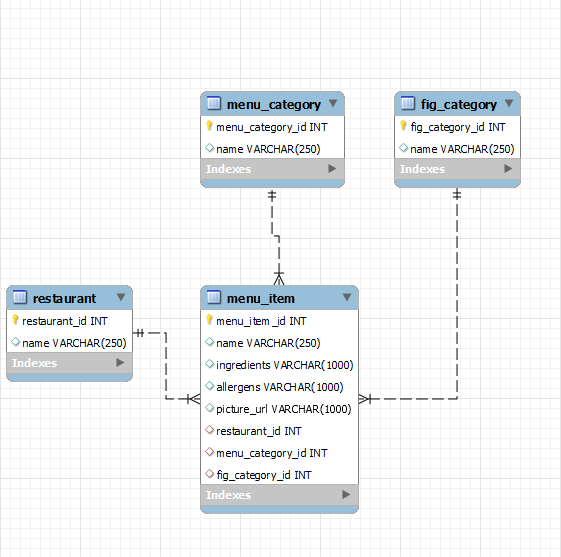
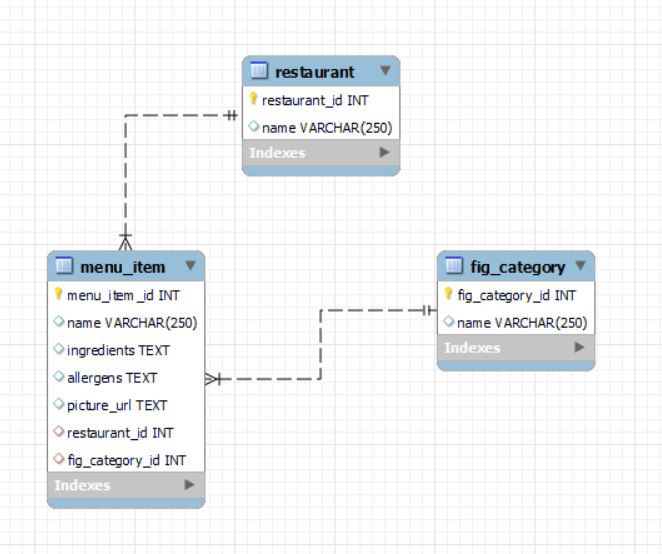
feat: clean up code and write tests

Changed region(s): [[0.0, 0.0921, 0.9091, 0.9513], [0.697, 0.1534, 0.9394, 0.3682], [0.7879, 0.7058, 0.8182, 0.7365]]

diff --git a/src/fig_data_challenge/main.py b/src/fig_data_challenge/main.py
@@ -1,6 +1,29 @@
+import json
+
 import numpy as np
 import pandas as pd
 from sqlalchemy import create_engine
+
+
+def return_42() -> int:
+    return 42
+
+
+def drop_rows_blank_or_null(df: pd.DataFrame, cols: list[str]) -> pd.DataFrame:
+    for col in cols:
+        df.loc[:, col] = df[col].replace("", np.nan)
+        df = df.dropna(subset=col)
+
+    return df
+
+
+def correct_mispellings(
+    df: pd.DataFrame, col: str, corrections: dict[str, str]
+) -> pd.DataFrame:
+    for k, v in corrections.items():
+        df.loc[df[col] == k, col] = v
+
+    return df
 
 
 def main() -> None:
@@ -13,25 +36,34 @@ def main() -> None:
     )
 
     # drop rows where blank or null
-    print(df_menu_items.shape)
-    df_menu_items["Product Name"] = df_menu_items["Product Name"].replace("", np.nan)
-    df_menu_items["Ingredients on Product Page"] = df_menu_items[
-        "Ingredients on Product Page"
-    ].replace("", np.nan)
-    df_menu_items["Store"] = df_menu_items["Store"].replace("", np.nan)
-    df_menu_items = df_menu_items.dropna(
-        subset=["Product Name", "Ingredients on Product Page", "Store"]
+    print(
+        "df_menu_items shape prior to removing blanks and nulls - "
+        + str(df_menu_items.shape)
     )
-    print(df_menu_items.shape)
+    df_menu_items = drop_rows_blank_or_null(
+        df=df_menu_items, cols=["Product Name", "Ingredients on Product Page", "Store"]
+    )
+    print(
+        "df_menu_items shape after to removing blanks and nulls - "
+        + str(df_menu_items.shape)
+        + "\n\n"
+    )
 
     # check the store names for any mispellings
+    print("unique store names:")
     print(np.sort(df_menu_items["Store"].unique()))
-    # correct the mispellings
-    df_menu_items.loc[df_menu_items["Store"] == "MacDonald's", "Store"] = "McDonald’s"
-    print(np.sort(df_menu_items["Store"].unique()))
-
+    print("\n")
     # check the category names for any mispellings
+    print("unique fig category names:")
     print(np.sort(df_reference_categories["Fig Category 1"].unique()))
+    print("\n")
+    # correct the mispellings
+    df_menu_items = correct_mispellings(
+        df=df_menu_items, col="Store", corrections={"MacDonald's": "McDonald’s"}
+    )
+    print("unique store names after correcting mispelling:")
+    print(np.sort(df_menu_items["Store"].unique()))
+    print("\n")
 
     # filter dataset to requested columns
     df_menu_items = df_menu_items[
@@ -70,7 +102,15 @@ def main() -> None:
     df_final.info()
 
     # connect to local MySQL database
-    engine = create_engine("mysql+mysqldb://root:root@localhost:3306/fig", echo=False)
+    CONFIG_MYSQL = json.load(open("CONFIG_MYSQL.json", "r"))
+    engine = create_engine(
+        "mysql+mysqldb://"
+        + CONFIG_MYSQL["username"]
+        + ":"
+        + CONFIG_MYSQL["password"]
+        + "@localhost:3306/fig",
+        echo=False,
+    )
 
     # insert into MySQL fig_category table
     df_fig_category = pd.DataFrame(
@@ -78,14 +118,6 @@ def main() -> None:
     ).dropna()
     df_fig_category.to_sql(
         con=engine, name="fig_category", if_exists="append", index=False
-    )
-
-    # insert into MySQL menu_category table
-    df_menu_category = pd.DataFrame(
-        df_final["Restaurant Category"].unique(), columns=["name"]
-    ).dropna()
-    df_menu_category.to_sql(
-        con=engine, name="menu_category", if_exists="append", index=False
     )
 
     # insert into MySQL restaurant table
@@ -97,19 +129,12 @@ def main() -> None:
     # get the information back from the MySQL tables
     # in order to retrieve the auto incremented ids
     df_fig_category_with_ids = pd.read_sql("SELECT * FROM fig_category", con=engine)
-    df_menu_category_with_ids = pd.read_sql("SELECT * FROM menu_category", con=engine)
     df_restaurant_with_ids = pd.read_sql("SELECT * FROM restaurant", con=engine)
     df_final = pd.merge(
         df_final,
         df_fig_category_with_ids.rename(columns={"name": "Fig Category 1"}),
         how="left",
         on="Fig Category 1",
-    )
-    df_final = pd.merge(
-        df_final,
-        df_menu_category_with_ids.rename(columns={"name": "Restaurant Category"}),
-        how="left",
-        on="Restaurant Category",
     )
     df_final = pd.merge(
         df_final,
@@ -126,7 +151,6 @@ def main() -> None:
             "Allergens",
             "Picture URL",
             "restaurant_id",
-            "menu_category_id",
             "fig_category_id",
         ]
     ].rename(

diff --git a/src/tests/test_main.py b/src/tests/test_main.py
@@ -1,6 +1,42 @@
-from fig_data_challenge.main import return_42
+import numpy as np
+import pandas as pd
+from pandas.testing import assert_frame_equal
+
+from fig_data_challenge.main import (
+    correct_mispellings,
+    drop_rows_blank_or_null,
+    return_42,
+)
 
 
 def test_main():
     value = return_42()
     assert value == 42
+
+
+def test_drop_rows_blank_or_null():
+    df_input = pd.DataFrame(
+        {
+            "column_1": ["1", "2", "3"],
+            "column_2": ["4", np.nan, "6"],
+            "column_3": ["7", "8", ""],
+        }
+    )
+    df_expected = pd.DataFrame({"column_1": ["1"], "column_2": ["4"], "column_3": ["7"]})
+
+    df_actual = drop_rows_blank_or_null(
+        df=df_input, cols=["column_1", "column_2", "column_3"]
+    )
+
+    assert_frame_equal(df_expected, df_actual)
+
+
+def test_correct_mispellings():
+    df_input = pd.DataFrame({"column_1": ["hello", "hello", "hwllo"]})
+    df_expected = pd.DataFrame({"column_1": ["hello", "hello", "hello"]})
+
+    df_actual = correct_mispellings(
+        df=df_input, col="column_1", corrections={"hwllo": "hello"}
+    )
+
+    assert_frame_equal(df_expected, df_actual)
